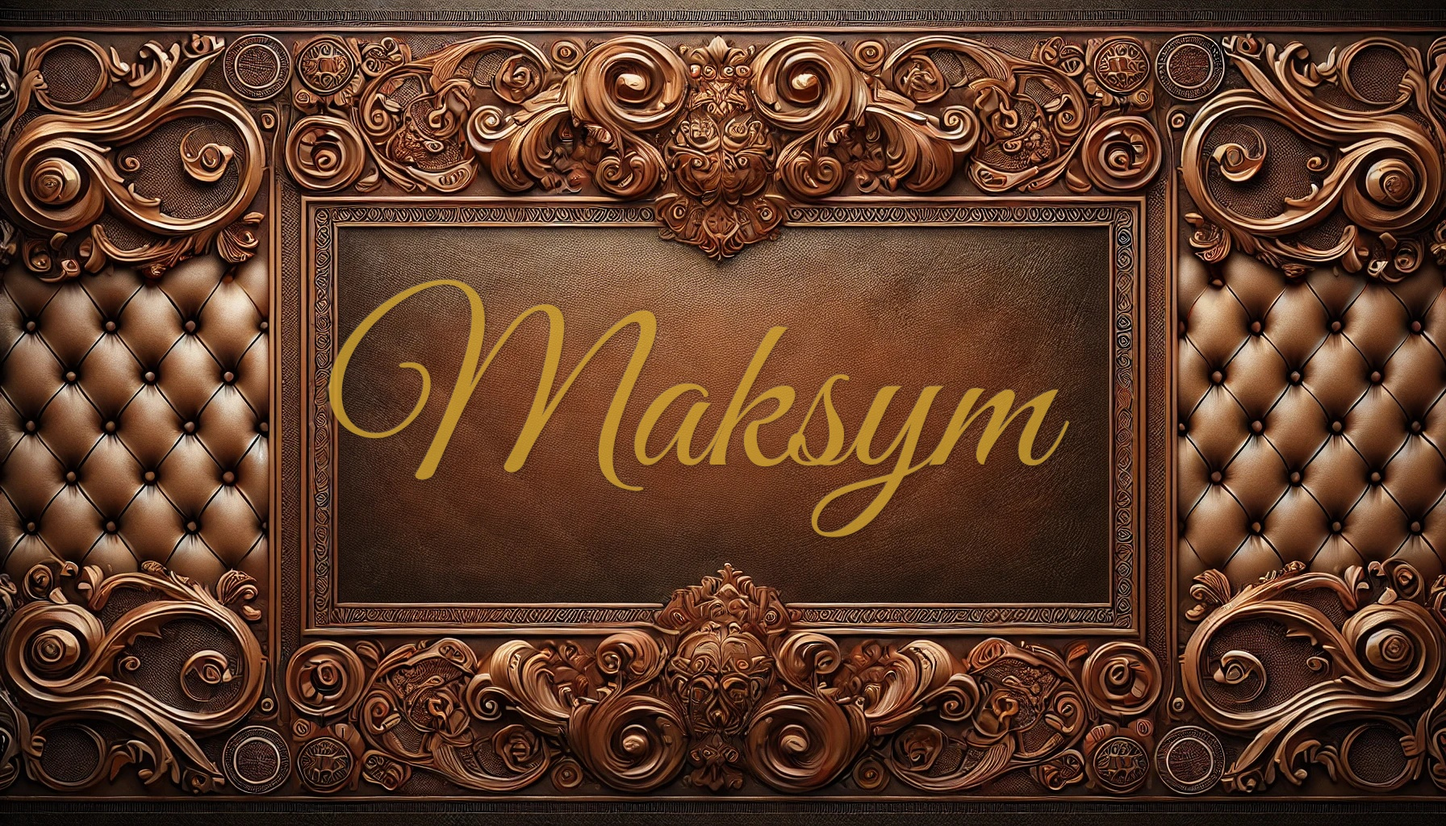
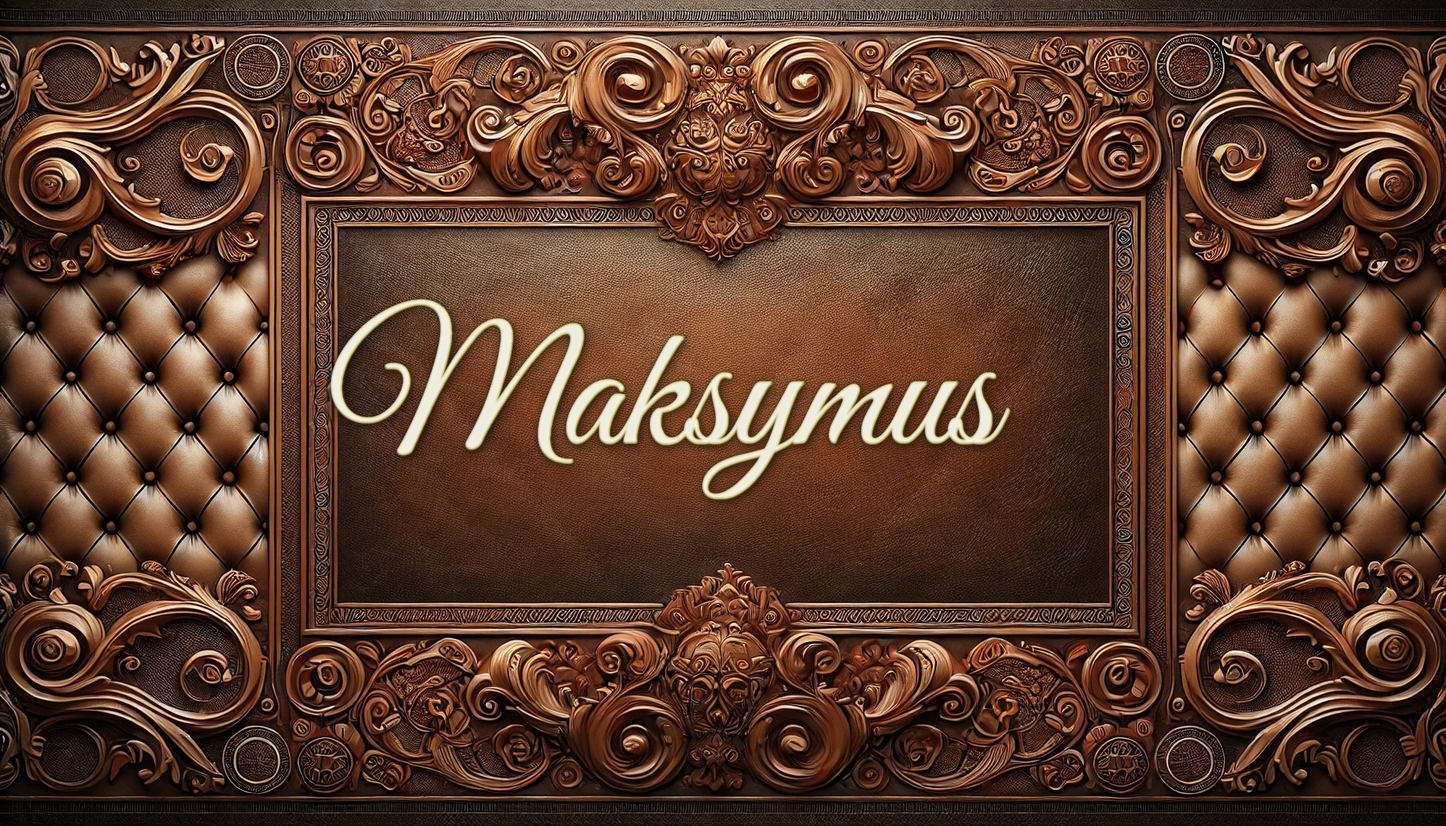
Шрифт9

Changed region(s): [[0.2188, 0.3438, 0.75, 0.6562]]

diff --git a/app.py b/app.py
@@ -21,93 +21,81 @@ def overlay_text():
     image = image.convert('RGBA')
     draw = ImageDraw.Draw(image)
 
+    # Получаем точные размеры изображения
     W, H = image.size
-    frame_margin_x = W * 0.2
-    frame_margin_y = H * 0.15
-    frame_width = W - (2 * frame_margin_x)
-    frame_height = H - (2 * frame_margin_y)
 
-    def get_optimal_font_size(text, max_width, max_height):
+    def get_font_and_size(text, max_width, max_height):
         font_size = 10
-        font = None
-        text_width = 0
-        text_height = 0
-        
         while True:
             try:
                 font = ImageFont.truetype("GreatVibes-Regular.ttf", font_size)
             except IOError:
                 font = ImageFont.load_default()
-                
-            text_width, text_height = draw.textsize(text, font=font)
+
+            # Используем getbbox() для более точного измерения
+            bbox = draw.textbbox((0, 0), text, font=font)
+            text_width = bbox[2] - bbox[0]
+            text_height = bbox[3] - bbox[1]
             
-            if text_width > max_width * 0.9 or text_height > max_height * 0.9:
+            if text_width > max_width * 0.8 or text_height > max_height * 0.8:
                 font_size -= 10
-                final_size = int(font_size * 0.90)
+                final_size = int(font_size * 0.97)
                 try:
                     font = ImageFont.truetype("GreatVibes-Regular.ttf", final_size)
                 except IOError:
                     font = ImageFont.load_default()
-                break
-                
-            font_size += 10
+                bbox = draw.textbbox((0, 0), text, font=font)
+                return font, bbox[2] - bbox[0], bbox[3] - bbox[1]
             
-        return font, text_width, text_height
+            font_size += 10
 
     def create_metallic_emboss(draw, text, position, font):
         x, y = position
         
-        # 1. Глубокий эффект вдавленности (пресс)
+        # 1. Глубокий эффект вдавленности
         for depth in range(8, 0, -1):
             press_layer = Image.new('RGBA', image.size, (0, 0, 0, 0))
             press_draw = ImageDraw.Draw(press_layer)
             
-            # Создаем темную область вдавленности
             offset = depth * 0.5
             press_draw.text(
                 (x + offset, y + offset),
                 text,
                 font=font,
-                fill=(0, 0, 0, 25 + depth * 5)  # Увеличиваем непрозрачность с глубиной
+                fill=(0, 0, 0, 20 + depth * 4)
             )
-            
-            # Размываем для реалистичности
             press_blur = press_layer.filter(ImageFilter.GaussianBlur(depth))
             image.paste(press_blur, (0, 0), press_blur)
 
-        # 2. Металлический золотой эффект
-        # Базовые цвета для золота
+        # 2. Основные золотые слои
         gold_colors = [
-            (255, 215, 0, 180),     # Яркое золото
-            (238, 198, 0, 180),     # Темное золото
-            (255, 223, 0, 180),     # Светлое золото
-            (218, 165, 32, 180),    # Золотисто-коричневый
-            (255, 240, 110, 180),   # Светлый блик
+            (218, 165, 32, 180),    # Базовый золотой
+            (255, 215, 0, 160),     # Яркий золотой
+            (205, 175, 49, 170),    # Тёмный золотой
+            (234, 193, 23, 165),    # Насыщенный золотой
         ]
 
-        # Создаем металлический эффект с бликами
+        # Наносим основные золотые слои
         for i, color in enumerate(gold_colors):
-            metallic_layer = Image.new('RGBA', image.size, (0, 0, 0, 0))
-            metallic_draw = ImageDraw.Draw(metallic_layer)
+            gold_layer = Image.new('RGBA', image.size, (0, 0, 0, 0))
+            gold_draw = ImageDraw.Draw(gold_layer)
             
-            # Смещение для создания эффекта объема
-            offset_x = math.sin(i * math.pi / 4) * 2
-            offset_y = math.cos(i * math.pi / 4) * 2
+            offset_x = math.sin(i * math.pi / 6) * 1.5
+            offset_y = math.cos(i * math.pi / 6) * 1.5
             
-            metallic_draw.text(
+            gold_draw.text(
                 (x + offset_x, y + offset_y),
                 text,
                 font=font,
                 fill=color
             )
             
-            # Применяем разное размытие для разных слоев
-            blur_radius = 0.5 if i == len(gold_colors)-1 else 1.5
-            metallic_blur = metallic_layer.filter(ImageFilter.GaussianBlur(blur_radius))
-            image.paste(metallic_blur, (0, 0), metallic_blur)
+            blur = 0.8 if i == 0 else 1.2
+            gold_blur = gold_layer.filter(ImageFilter.GaussianBlur(blur))
+            image.paste(gold_blur, (0, 0), gold_blur)
 
-        # 3. Добавляем яркие блики
-        highlight_positions = [(0.8, 0.8), (-0.8, -0.8), (0.8, -0.8), (-0.8, 0.8)]
+        # 3. Минимальные блики (меньше чем раньше)
+        highlight_positions = [(-0.5, -0.5), (0.5, 0.5)]
         for pos in highlight_positions:
             highlight_layer = Image.new('RGBA', image.size, (0, 0, 0, 0))
             highlight_draw = ImageDraw.Draw(highlight_layer)
@@ -116,48 +104,36 @@ def overlay_text():
                 (x + pos[0], y + pos[1]),
                 text,
                 font=font,
-                fill=(255, 255, 255, 100)
+                fill=(255, 255, 255, 30)  # Уменьшена прозрачность бликов
             )
             
             highlight_blur = highlight_layer.filter(ImageFilter.GaussianBlur(0.5))
             image.paste(highlight_blur, (0, 0), highlight_blur)
 
-        # 4. Добавляем эффект деформации кожи вокруг букв
+        # 4. Эффект деформации кожи
         for radius in range(10, 0, -2):
             leather_layer = Image.new('RGBA', image.size, (0, 0, 0, 0))
             leather_draw = ImageDraw.Draw(leather_layer)
             
-            leather_draw.text(
-                (x, y),
-                text,
-                font=font,
-                fill=(0, 0, 0, 5)  # Очень прозрачный черный
-            )
-            
+            leather_draw.text((x, y), text, font=font, fill=(0, 0, 0, 5))
             leather_blur = leather_layer.filter(ImageFilter.GaussianBlur(radius))
             image.paste(leather_blur, (0, 0), leather_blur)
 
-        # 5. Финальный блестящий акцент
-        shine_layer = Image.new('RGBA', image.size, (0, 0, 0, 0))
-        shine_draw = ImageDraw.Draw(shine_layer)
-        shine_draw.text(
-            (x - 1, y - 1),
-            text,
-            font=font,
-            fill=(255, 255, 255, 50)
-        )
-        shine_blur = shine_layer.filter(ImageFilter.GaussianBlur(0.3))
-        image.paste(shine_blur, (0, 0), shine_blur)
+    # Вычисляем размеры для центральной области (рамки)
+    frame_width = W * 0.6    # Берем 60% ширины изображения
+    frame_height = H * 0.7   # Берем 70% высоты изображения
 
-    font, text_width, text_height = get_optimal_font_size(text, frame_width, frame_height)
+    # Получаем шрифт и размеры текста
+    font, text_width, text_height = get_font_and_size(text, frame_width, frame_height)
 
-    text_position = (
-        frame_margin_x + (frame_width - text_width) / 2,
-        frame_margin_y + (frame_height - text_height) / 2
-    )
+    # Точное центрирование
+    x = (W - text_width) / 2
+    y = (H - text_height) / 2
 
-    create_metallic_emboss(draw, text, text_position, font)
+    # Применяем эффекты
+    create_metallic_emboss(draw, text, (x, y), font)
 
+    # Сохранение результата
     img_io = io.BytesIO()
     image = image.convert('RGB')
     image.save(img_io, 'JPEG', quality=95)
